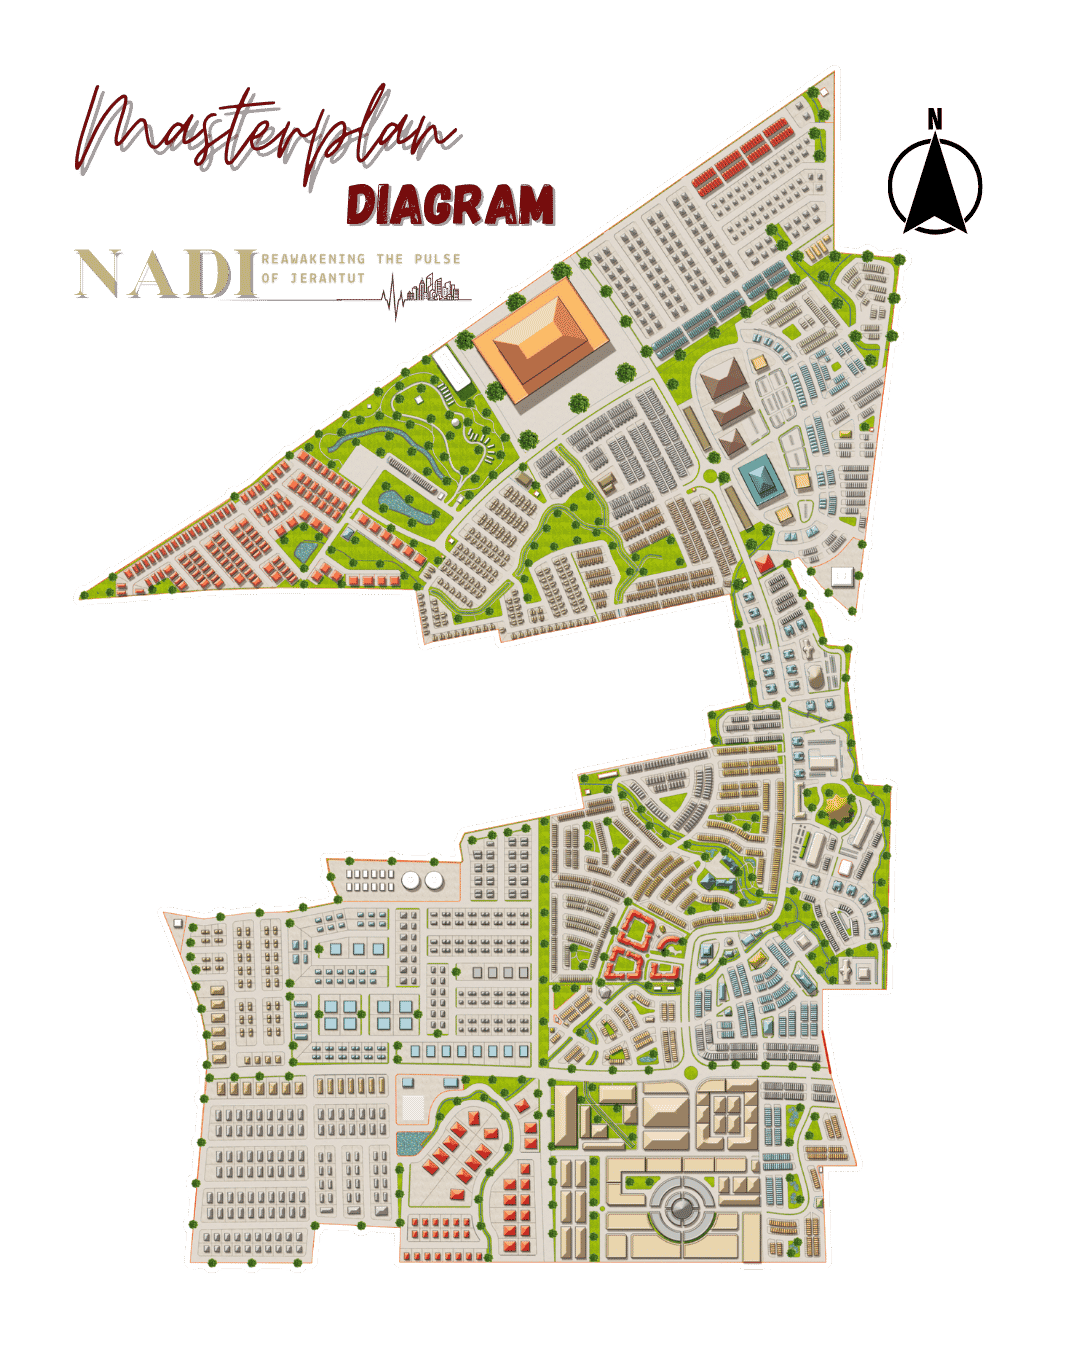
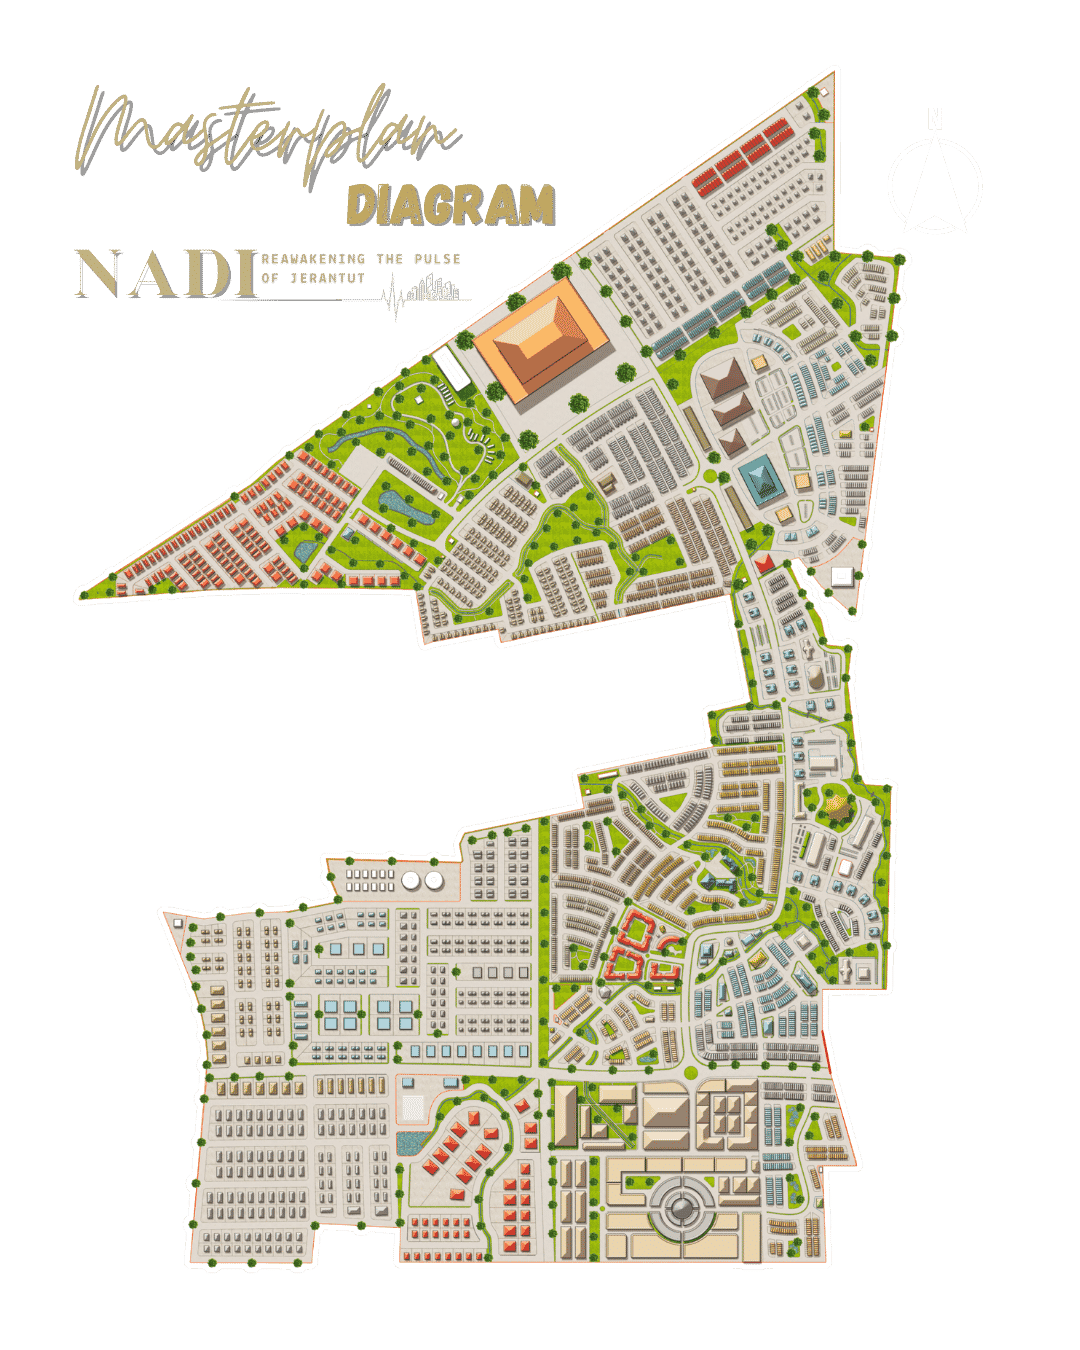
Add files via upload

diff --git a/index.html b/index.html
@@ -2,7 +2,7 @@
 <html lang="en">
 <head>
 <meta charset="UTF-8">
-<meta name="viewport" content="width=device-width, initial-scale=1.0">
+<meta name="viewport" content="width=device-width, initial-scale=1.0, maximum-scale=1.0, user-scalable=no">
 <title>NADI — The Pulse of Jerantut | Premium Masterplan</title>
 
 <!-- Google Fonts: Luxury Serif and Clean Sans -->
@@ -32,14 +32,24 @@
 }
 
 * { margin:0; padding:0; box-sizing:border-box; }
-html { scroll-behavior: smooth; background: var(--nadi-charcoal); }
 
-body {
-  font-family: 'Montserrat', sans-serif;
-  background: var(--nadi-cream);
-  color: var(--text-dark);
+/* FIX: Lock the viewport to prevent mobile horizontal scroll glitches */
+html, body {
+  max-width: 100vw;
   overflow-x: hidden;
+  scroll-behavior: smooth;
+  background: var(--nadi-charcoal);
+  font-family: 'Montserrat', sans-serif;
+  color: var(--text-dark);
   -webkit-font-smoothing: antialiased;
+}
+
+/* Master Wrapper to enforce no overflow */
+.site-wrapper {
+  width: 100%;
+  overflow: hidden;
+  position: relative;
+  background: var(--nadi-cream);
 }
 
 /* ─── SCROLLBAR ─── */
@@ -50,8 +60,8 @@ body {
 /* ─── CORPORATE BANNER ─── */
 .corporate-banner {
   background: var(--nadi-red); color: var(--text-light); text-align: center;
-  padding: 12px; font-size: 10px; letter-spacing: 4px; font-weight: 500;
-  text-transform: uppercase; position: relative; z-index: 1000;
+  padding: 12px 5%; font-size: 10px; letter-spacing: 3px; font-weight: 500;
+  text-transform: uppercase; position: relative; z-index: 1000; line-height: 1.5;
 }
 .corporate-banner strong { color: var(--nadi-gold-light); font-weight: 700; }
 
@@ -63,10 +73,11 @@ nav {
   background: rgba(26, 26, 26, 0.95); backdrop-filter: blur(20px);
   border-bottom: 1px solid rgba(198, 168, 124, 0.15);
   transition: all 0.4s ease;
+  width: 100%;
 }
 .nav-logo {
-  font-family: 'Cormorant Garamond', serif; font-size: 38px; font-weight: 700;
-  color: var(--text-light); letter-spacing: 6px; text-decoration: none; cursor: pointer;
+  font-family: 'Cormorant Garamond', serif; font-size: clamp(28px, 4vw, 38px); font-weight: 700;
+  color: var(--text-light); letter-spacing: 6px; text-decoration: none; cursor: pointer; flex-shrink: 0;
 }
 .nav-logo span { color: var(--nadi-red); }
 
@@ -76,6 +87,7 @@ nav {
   font-family: 'Montserrat', sans-serif; font-size: 11px; font-weight: 600; letter-spacing: 2px;
   text-transform: uppercase; color: rgba(244, 240, 234, 0.6);
   padding: 14px 28px; border-radius: 50px; cursor: pointer; transition: all 0.4s cubic-bezier(0.2, 0.8, 0.2, 1);
+  white-space: normal; text-align: center;
 }
 .tab-btn:hover { color: var(--nadi-gold); }
 .tab-btn.active { background: var(--nadi-red); color: var(--text-light); border-color: var(--nadi-red); box-shadow: 0 10px 25px rgba(155, 27, 42, 0.4); }
@@ -85,17 +97,23 @@ nav {
 .tab-pane.active { display: block !important; opacity: 1 !important; transform: translateY(0); }
 
 /* ─── TYPOGRAPHY & LAYOUTS ─── */
-section { padding: 140px 0; position: relative; }
-.container { max-width: 1440px; margin: 0 auto; padding: 0 5%; }
-.section-header { margin-bottom: 70px; }
+section { padding: clamp(60px, 10vw, 140px) 0; position: relative; width: 100%; }
+.container { max-width: 1440px; margin: 0 auto; padding: 0 5%; width: 100%; }
+.section-header { margin-bottom: clamp(40px, 8vw, 70px); }
 .eyebrow {
   font-size: 11px; font-weight: 700; letter-spacing: 5px; text-transform: uppercase;
   color: var(--nadi-gold); display: flex; align-items: center; gap: 15px; margin-bottom: 20px;
 }
 .eyebrow::before { content: ''; width: 50px; height: 1px; background: var(--nadi-gold); }
-.title { font-family: 'Cormorant Garamond', serif; font-size: clamp(45px, 5vw, 70px); font-weight: 300; line-height: 1.1; color: var(--text-dark); margin-bottom: 25px; }
+
+/* FIX: Adjusted clamp to prevent long words from breaking mobile screens */
+.title { 
+  font-family: 'Cormorant Garamond', serif; font-size: clamp(34px, 7vw, 70px); 
+  font-weight: 300; line-height: 1.1; color: var(--text-dark); margin-bottom: 25px; 
+  word-wrap: break-word; hyphens: auto; 
+}
 .title em { font-style: italic; color: var(--nadi-red); font-weight: 400; }
-.desc { font-size: 16px; color: var(--text-muted); line-height: 2.2; max-width: 750px; font-weight: 400; }
+.desc { font-size: clamp(14px, 2vw, 16px); color: var(--text-muted); line-height: 2.2; max-width: 750px; font-weight: 400; }
 
 .theme-dark { background: var(--nadi-charcoal); color: var(--text-light); border-top: 1px solid rgba(255,255,255,0.05); border-bottom: 1px solid rgba(255,255,255,0.05); }
 .theme-dark .title { color: var(--text-light); }
@@ -111,69 +129,69 @@ section { padding: 140px 0; position: relative; }
   background-attachment: fixed; position: relative; display: flex; align-items: center;
 }
 .hero-overlay { position: absolute; inset: 0; background: linear-gradient(to right, rgba(26,26,26,0.95) 0%, rgba(26,26,26,0.7) 50%, rgba(35,53,32,0.4) 100%); }
-.hero-content { position: relative; z-index: 2; max-width: 1000px; }
-.hero-title { font-family: 'Cormorant Garamond', serif; font-size: clamp(60px, 8vw, 110px); font-weight: 300; line-height: 1.05; color: var(--text-light); margin-bottom: 30px; }
+.hero-content { position: relative; z-index: 2; max-width: 1000px; padding-top: 40px; }
+/* FIX: Reduced mobile font size to prevent overflow */
+.hero-title { font-family: 'Cormorant Garamond', serif; font-size: clamp(38px, 9vw, 110px); font-weight: 300; line-height: 1.05; color: var(--text-light); margin-bottom: 30px; word-wrap: break-word; hyphens: auto;}
 .hero-title strong { font-weight: 600; color: var(--nadi-gold); display: block; }
-.hero-quote { font-family: 'Cormorant Garamond', serif; font-style: italic; font-size: 28px; color: var(--nadi-sand); margin-bottom: 35px; border-left: 3px solid var(--nadi-red); padding-left: 30px; line-height: 1.4; }
+.hero-quote { font-family: 'Cormorant Garamond', serif; font-style: italic; font-size: clamp(18px, 4vw, 28px); color: var(--nadi-sand); margin-bottom: 35px; border-left: 3px solid var(--nadi-red); padding-left: clamp(15px, 3vw, 30px); line-height: 1.4; }
 
 /* ─── MEDIA & MAP EMBEDS ─── */
 .media-wrapper { position: relative; width: 100%; border-radius: 12px; overflow: hidden; box-shadow: 0 40px 80px rgba(0,0,0,0.15); border: 1px solid rgba(198, 168, 124, 0.3); background: var(--nadi-charcoal); }
 .video-container { position: relative; padding-bottom: 56.25%; height: 0; }
 .video-container iframe { position: absolute; top: 0; left: 0; width: 100%; height: 100%; border: 0; }
-.map-iframe { width: 100%; height: 600px; border: 0; filter: contrast(1.1) saturate(1.1); }
+.map-iframe { width: 100%; height: clamp(300px, 50vw, 600px); border: 0; filter: contrast(1.1) saturate(1.1); }
 
 /* ─── GRIDS & CARDS ─── */
-.grid-2 { display: grid; grid-template-columns: 1fr 1fr; gap: 80px; align-items: center; }
-.grid-3 { display: grid; grid-template-columns: repeat(3, 1fr); gap: 40px; }
-.img-card { width: 100%; border-radius: 12px; box-shadow: 0 25px 60px rgba(0,0,0,0.1); transition: transform 0.6s cubic-bezier(0.2, 0.8, 0.2, 1); }
+.grid-2 { display: grid; grid-template-columns: 1fr 1fr; gap: clamp(40px, 8vw, 80px); align-items: center; width: 100%; }
+.grid-3 { display: grid; grid-template-columns: repeat(3, 1fr); gap: clamp(30px, 5vw, 40px); width: 100%; }
+.img-card { width: 100%; max-width: 100%; border-radius: 12px; box-shadow: 0 25px 60px rgba(0,0,0,0.1); transition: transform 0.6s cubic-bezier(0.2, 0.8, 0.2, 1); }
 .img-card:hover { transform: scale(1.02); }
 
 /* Stats Bar */
 .stats-bar { display: grid; grid-template-columns: repeat(4, 1fr); gap: 1px; background: rgba(198, 168, 124, 0.3); border: 1px solid rgba(198, 168, 124, 0.3); margin-top: -70px; position: relative; z-index: 10; border-radius: 8px; overflow: hidden; box-shadow: 0 30px 60px rgba(0,0,0,0.2); }
-.stat-item { background: var(--nadi-charcoal-light); padding: 50px 30px; text-align: center; transition: all 0.4s; }
+.stat-item { background: var(--nadi-charcoal-light); padding: clamp(30px, 5vw, 50px) 20px; text-align: center; transition: all 0.4s; }
 .stat-item:hover { background: var(--nadi-red); transform: translateY(-10px); }
 .stat-item:hover .stat-num, .stat-item:hover .stat-label { color: var(--text-light); }
-.stat-num { font-family: 'Cormorant Garamond', serif; font-size: 55px; font-weight: 600; color: var(--nadi-gold); line-height: 1; margin-bottom: 15px; transition: color 0.4s; }
+.stat-num { font-family: 'Cormorant Garamond', serif; font-size: clamp(35px, 6vw, 55px); font-weight: 600; color: var(--nadi-gold); line-height: 1; margin-bottom: 15px; transition: color 0.4s; }
 .stat-label { font-size: 11px; font-weight: 600; letter-spacing: 3px; text-transform: uppercase; color: var(--nadi-sand); transition: color 0.4s; }
 
-/* ─── THE THREE PULSES (ZONING DEEP DIVE) ─── */
-.pulse-card { background: var(--nadi-cream); border: 1px solid var(--nadi-sand); border-radius: 12px; padding: 50px; transition: all 0.5s cubic-bezier(0.2, 0.8, 0.2, 1); position: relative; overflow: hidden; box-shadow: 0 10px 30px rgba(0,0,0,0.03); }
+/* ─── THE THREE PULSES ─── */
+.pulse-card { background: var(--nadi-cream); border: 1px solid var(--nadi-sand); border-radius: 12px; padding: clamp(30px, 5vw, 50px); transition: all 0.5s; position: relative; overflow: hidden; box-shadow: 0 10px 30px rgba(0,0,0,0.03); }
 .pulse-card::before { content: ''; position: absolute; top: 0; left: 0; right: 0; height: 6px; background: var(--nadi-gold); transform: scaleX(0); transform-origin: left; transition: transform 0.6s ease; }
 .pulse-card:hover::before { transform: scaleX(1); }
-.pulse-card:hover { transform: translateY(-15px); box-shadow: 0 40px 80px rgba(0,0,0,0.1); background: var(--text-light); }
-.pulse-title { font-family: 'Cormorant Garamond', serif; font-size: 42px; color: var(--nadi-red); margin-bottom: 10px; }
-.pulse-metrics { display: flex; gap: 20px; margin-bottom: 30px; border-bottom: 1px solid var(--nadi-sand); padding-bottom: 20px; }
+.pulse-card:hover { transform: translateY(-10px); box-shadow: 0 40px 80px rgba(0,0,0,0.1); background: #FFFFFF; }
+.pulse-title { font-family: 'Cormorant Garamond', serif; font-size: clamp(28px, 4vw, 42px); color: var(--nadi-red); margin-bottom: 10px; }
+.pulse-metrics { display: flex; flex-wrap: wrap; gap: 15px; margin-bottom: 30px; border-bottom: 1px solid var(--nadi-sand); padding-bottom: 20px; }
 .metric { font-size: 11px; color: var(--nadi-gold); text-transform: uppercase; letter-spacing: 2px; font-weight: 700; }
 .pulse-list { list-style: none; margin-top: 20px; }
-.pulse-list li { font-size: 15px; color: var(--text-muted); padding: 15px 0; border-bottom: 1px solid var(--nadi-sand); display: flex; align-items: flex-start; gap: 12px; line-height: 1.6; }
+.pulse-list li { font-size: 14px; color: var(--text-muted); padding: 15px 0; border-bottom: 1px dashed var(--nadi-sand); display: flex; align-items: flex-start; gap: 12px; line-height: 1.6; }
 .pulse-list li::before { content: '✦'; color: var(--nadi-gold); font-size: 12px; margin-top: 4px; }
 
-/* ─── INTERACTIVE CLOSED LOOP CSS ENGINE ─── */
+/* ─── ECOSYSTEM MATRIX ─── */
 .ecosystem-matrix { display: grid; grid-template-columns: 1fr 1fr; gap: 30px; max-width: 1000px; margin: 0 auto; position: relative; padding: 60px 0; }
-.eco-node { background: var(--nadi-charcoal-light); border: 1px solid rgba(255,255,255,0.05); border-radius: 16px; padding: 40px; box-shadow: 0 20px 50px rgba(0,0,0,0.2); transition: all 0.5s ease; position: relative; z-index: 2; overflow: hidden; }
+.eco-node { background: var(--nadi-charcoal-light); border: 1px solid rgba(255,255,255,0.05); border-radius: 16px; padding: clamp(25px, 5vw, 40px); box-shadow: 0 20px 50px rgba(0,0,0,0.2); transition: all 0.5s ease; position: relative; z-index: 2; overflow: hidden; }
 .eco-node::after { content: ''; position: absolute; inset: 0; background: linear-gradient(135deg, transparent, rgba(198, 168, 124, 0.05)); opacity: 0; transition: opacity 0.5s; }
 .eco-node:hover { transform: translateY(-10px) scale(1.02); border-color: var(--nadi-gold); box-shadow: 0 30px 60px rgba(198, 168, 124, 0.15); }
 .eco-node:hover::after { opacity: 1; }
 .eco-icon { font-family: 'Cormorant Garamond', serif; font-size: 50px; color: var(--nadi-gold); margin-bottom: 20px; font-weight: 300; line-height: 1; }
 .eco-title { font-size: 18px; font-weight: 700; color: var(--text-light); margin-bottom: 15px; text-transform: uppercase; letter-spacing: 2px; }
-.eco-desc { font-size: 15px; color: rgba(244, 240, 234, 0.7); line-height: 1.9; }
+.eco-desc { font-size: 14px; color: rgba(244, 240, 234, 0.7); line-height: 1.9; }
 
-/* The Rotating Center Core */
 .matrix-core { position: absolute; top: 50%; left: 50%; transform: translate(-50%, -50%); width: 160px; height: 160px; background: var(--nadi-charcoal); border-radius: 50%; border: 2px dashed var(--nadi-gold); display: flex; align-items: center; justify-content: center; text-align: center; font-size: 13px; font-weight: 700; letter-spacing: 3px; color: var(--nadi-red); z-index: 1; box-shadow: 0 0 40px rgba(0,0,0,0.5); }
 .matrix-core::before { content: ''; position: absolute; inset: 10px; border: 1px solid rgba(198, 168, 124, 0.3); border-radius: 50%; animation: spinSlow 20s linear infinite; }
 .matrix-core::after { content: ''; position: absolute; inset: -20px; border: 1px dashed rgba(198, 168, 124, 0.1); border-radius: 50%; animation: spinSlow 30s linear infinite reverse; }
 @keyframes spinSlow { 100% { transform: rotate(360deg); } }
 
 /* ─── CHARTS WRAPPER ─── */
-.chart-box { background: var(--text-light); padding: 50px; border-radius: 12px; box-shadow: 0 20px 60px rgba(0,0,0,0.06); border: 1px solid var(--nadi-sand); }
+.chart-box { background: var(--bg-pure); padding: clamp(20px, 5vw, 50px); border-radius: 12px; box-shadow: 0 20px 60px rgba(0,0,0,0.06); border: 1px solid var(--nadi-sand); width: 100%; position: relative; }
 .theme-dark .chart-box { background: var(--nadi-charcoal-light); border-color: rgba(255,255,255,0.05); box-shadow: 0 20px 60px rgba(0,0,0,0.4); }
 
 /* ─── TIMELINE ─── */
 .timeline-btn-group { display: flex; border-bottom: 2px solid var(--nadi-sand); margin-bottom: 60px; }
-.time-btn { flex: 1; padding: 25px; background: none; border: none; font-family: 'Montserrat', sans-serif; font-size: 13px; font-weight: 700; text-transform: uppercase; letter-spacing: 3px; color: var(--text-muted); cursor: pointer; transition: all 0.4s; border-bottom: 4px solid transparent; margin-bottom: -2px; }
+.time-btn { flex: 1; padding: 20px 10px; background: none; border: none; font-family: 'Montserrat', sans-serif; font-size: clamp(10px, 2vw, 13px); font-weight: 700; text-transform: uppercase; letter-spacing: 2px; color: var(--text-muted); cursor: pointer; transition: all 0.4s; border-bottom: 4px solid transparent; margin-bottom: -2px; }
 .time-btn.active { color: var(--nadi-red); border-bottom-color: var(--nadi-red); }
 .time-btn:hover:not(.active) { color: var(--nadi-gold); }
-.phase-panel { display: none; grid-template-columns: 1fr 1.2fr; gap: 80px; align-items: center; }
+.phase-panel { display: none; grid-template-columns: 1fr 1.2fr; gap: clamp(40px, 8vw, 80px); align-items: center; width: 100%; }
 .phase-panel.active { display: grid; animation: fadeUp 0.8s ease forwards; }
 
 /* ─── UTILS & ANIMATIONS ─── */
@@ -181,31 +199,21 @@ section { padding: 140px 0; position: relative; }
 .reveal { opacity: 0; transform: translateY(60px); transition: opacity 1s cubic-bezier(0.2, 0.8, 0.2, 1), transform 1s cubic-bezier(0.2, 0.8, 0.2, 1); }
 .reveal.visible { opacity: 1; transform: translateY(0); }
 
-/* ─── MOBILE RESPONSIVENESS (FULLY OPTIMIZED) ─── */
+/* ─── MOBILE RESPONSIVENESS (NO HORIZONTAL OVERFLOW) ─── */
 @media (max-width: 1024px) {
-  /* Navigation Mobile - 2x2 Grid (No hidden scrolling) */
   nav { flex-direction: column; height: auto; padding: 20px 5%; align-items: center; gap: 15px; }
-  .tab-buttons {
-    display: grid; grid-template-columns: 1fr 1fr; width: 100%; gap: 10px;
-  }
-  .tab-btn {
-    width: 100%; padding: 12px 5px; font-size: 10px; white-space: normal; 
-    line-height: 1.4; text-align: center; border-radius: 8px; /* Softer edges for grid layout */
-  }
+  .tab-buttons { display: grid; grid-template-columns: 1fr 1fr; width: 100%; gap: 10px; }
+  .tab-btn { width: 100%; padding: 12px 5px; font-size: 10px; white-space: normal; line-height: 1.4; text-align: center; border-radius: 8px; }
 
-  /* Grids to single column */
-  .grid-2, .grid-3, .phase-panel, .ecosystem-matrix { grid-template-columns: 1fr; }
+  /* Stack all grids on mobile */
+  .grid-2, .grid-3, .phase-panel, .ecosystem-matrix { grid-template-columns: 1fr; width: 100%; }
   
-  /* Stats adjustment */
   .stats-bar { grid-template-columns: 1fr 1fr; margin-top: -30px; }
-  
-  /* Background Overlays for readability on mobile */
   .hero-overlay { background: linear-gradient(to bottom, rgba(26,26,26,0.85) 0%, rgba(26,26,26,0.95) 100%); }
   
-  /* Hide decorative elements that break mobile view */
   .matrix-core { display: none; }
 
-  /* Timeline Mobile - Stacked (No hidden scrolling) */
+  /* Vertical stack for timeline buttons on mobile */
   .timeline-btn-group { display: flex; flex-direction: column; gap: 10px; border-bottom: none; margin-bottom: 40px; }
   .time-btn { border: 1px solid var(--nadi-sand); border-radius: 8px; padding: 15px; margin-bottom: 0; }
   .time-btn.active { background: var(--nadi-red); color: var(--text-light); border-color: var(--nadi-red); }
@@ -217,6 +225,9 @@ section { padding: 140px 0; position: relative; }
 </style>
 </head>
 <body>
+
+<!-- SITE WRAPPER: This is the ultimate fix for mobile horizontal scrolling -->
+<div class="site-wrapper">
 
 <!-- CORPORATE BANNER -->
 <div class="corporate-banner">
@@ -241,14 +252,11 @@ section { padding: 140px 0; position: relative; }
   <section class="hero" style="padding-top: 0;">
     <div class="hero-overlay"></div>
     <div class="container relative">
-      <div class="hero-content reveal visible">
-        <div class="eyebrow" style="color:var(--nadi-gold-light);">A Visionary Masterpiece</div>
-        
-        <!-- OPTIONAL: You can delete the <h1> and <div> below if your concept.png already contains this text -->
+      <div class="hero-content reveal visible" style="margin: 0 auto; text-align: center;">
+        <div class="eyebrow" style="justify-content: center; color: var(--nadi-gold-light);">A Visionary Masterpiece</div>
         <h1 class="hero-title">Reawakening<br><strong>The Pulse of Jerantut</strong></h1>
-        <div class="hero-quote">"A development that serves only one demographic is a facility. A development that serves all three simultaneously is a township."</div>
-        
-        <p class="desc" style="color: rgba(244, 240, 234, 0.8);">
+        <div class="hero-quote" style="border: none; padding: 0;">"A development that serves only one demographic is a facility. A development that serves all three simultaneously is a township."</div>
+        <p class="desc" style="color: rgba(244, 240, 234, 0.8); margin: 0 auto;">
           Born from a profound respect for Pahang’s natural heritage and a bold vision for its future, NADI emerges as Malaysia's premier rural-integrated healthcare tourism destination. We are meticulously weaving together specialist healthcare, ecological preservation, and intergenerational vitality to establish an unprecedented benchmark in sustainable, human-centric urban design.
         </p>
       </div>
@@ -329,7 +337,7 @@ section { padding: 140px 0; position: relative; }
       </div>
       
       <div class="reveal" style="margin-bottom: 60px;">
-        <img src="FINAL LAYOUT NADI-1.jpg" alt="NADI Masterplan Final Layout" class="img-card" onerror="this.src='Masterplan Diagram transparent.png'">
+        <img src="FINAL LAYOUT NADI-1.png" alt="NADI Masterplan Final Layout" class="img-card" onerror="this.src='Masterplan Diagram transparent.png'">
       </div>
 
       <div class="grid-2 text-left mt-5">
@@ -565,6 +573,8 @@ section { padding: 140px 0; position: relative; }
     <p style="font-size: 12px; color: rgba(244, 240, 234, 0.4); letter-spacing: 2px; text-transform: uppercase;">&copy; 2026 NADI Jerantut Masterplan. Universiti Islam Antarabangsa Malaysia (IIUM) Urban Planning Department.</p>
   </div>
 </footer>
+
+</div> <!-- End Site Wrapper -->
 
 <!-- ─── SCRIPTS ─── -->
 <script>